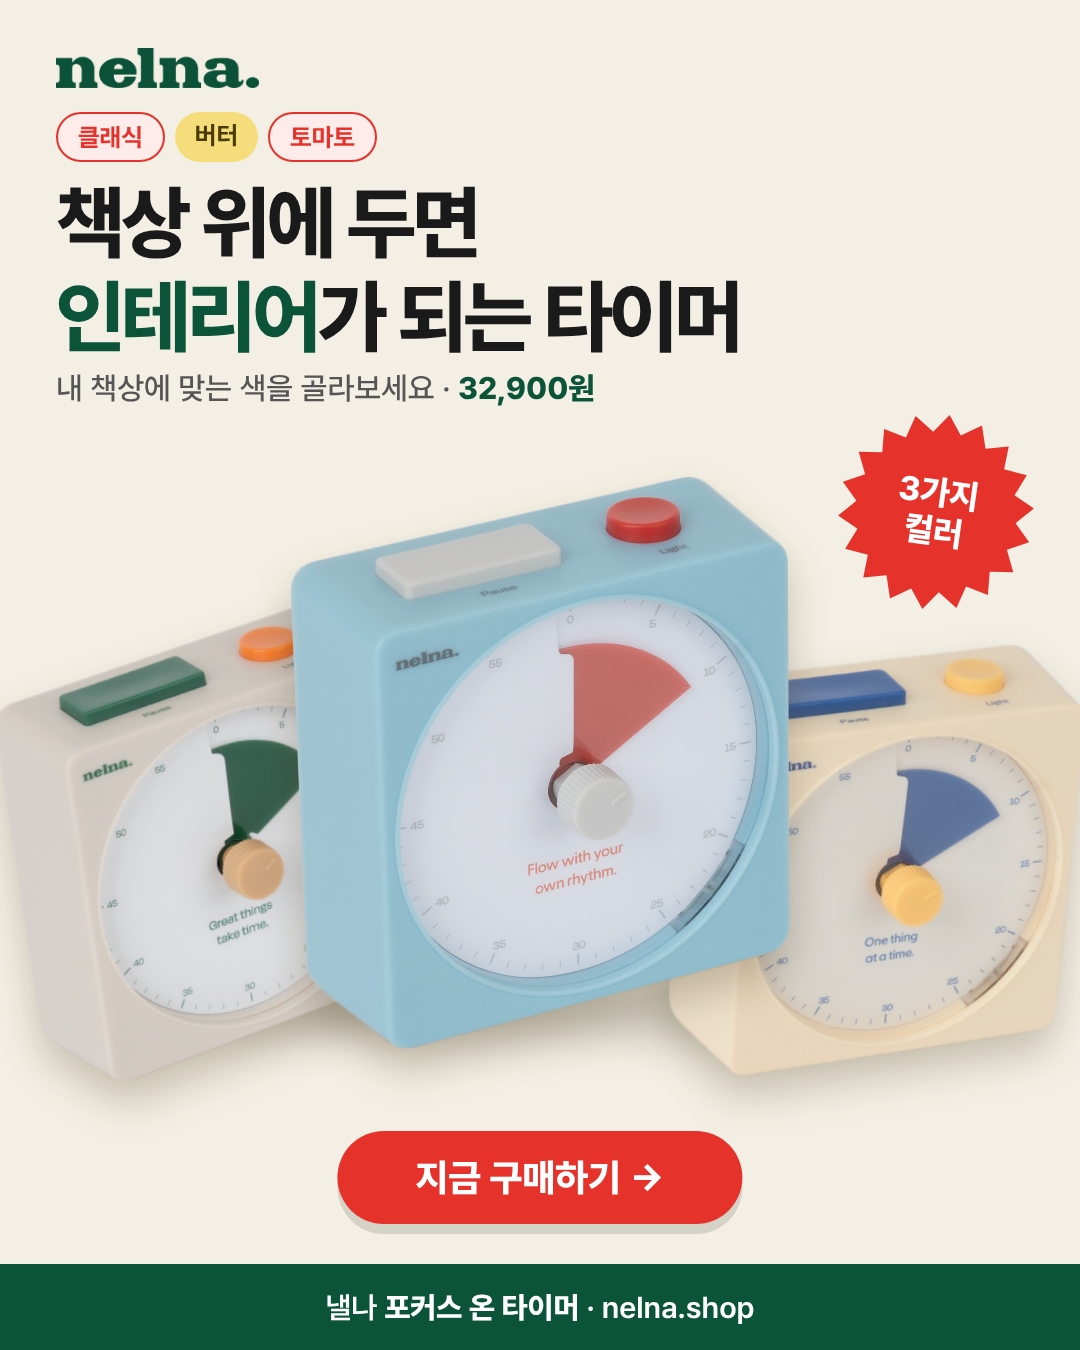
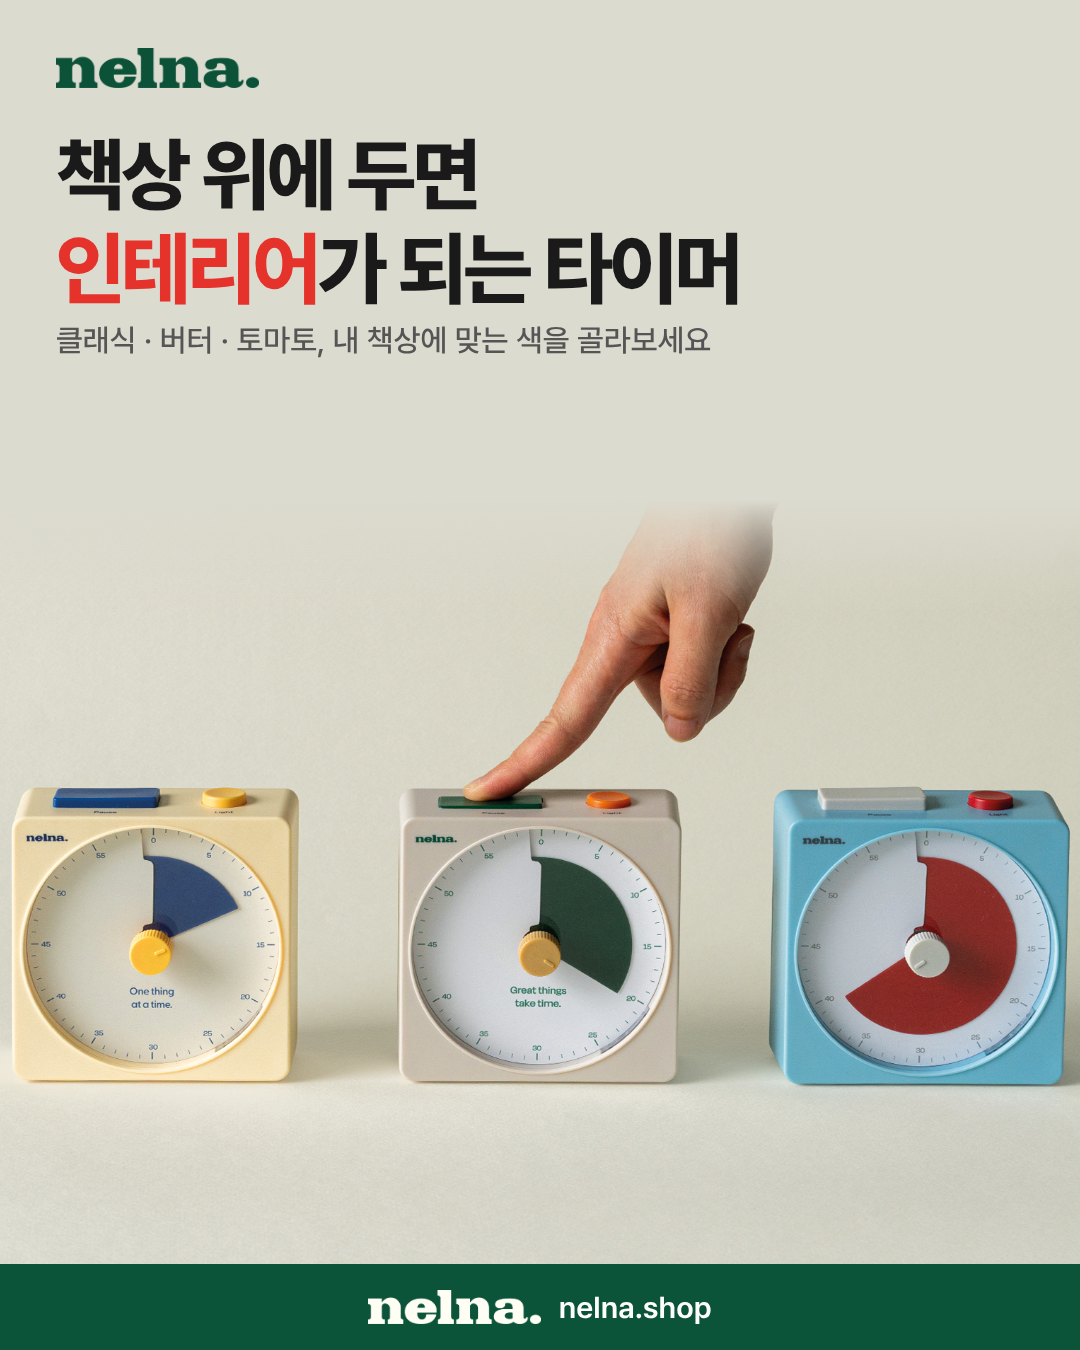
타이머 낼나 스타일 시안 개편: 사진샷 + 2번 구도 통일, 가격·구매 버튼 제거
Claude-Session: https://claude.ai/code/session_01DXS2KyyyYLycy5YDWmXmGC

diff --git a/ad-creatives/AD-BRIEF.md b/ad-creatives/AD-BRIEF.md
@@ -183,31 +183,116 @@
 
 - 01-timer_t6 · 본문·헤드라인·CTA는 **c6** 와 동일 · 스토리/릴스 커버 있음
 
-### 낼나 기존 광고 스타일 시안 (크림/사진 배경 · nelna. 로고 · 레드 CTA · 딥그린 바)
+### 낼나 기존 광고 스타일 시안 (사진 풀블리드 · nelna. 로고 · 딥그린 바 / 가격·구매 버튼 없음)
+
+#### 01-timer_n1
 
 ![01-timer_n1](out/01-timer_n1_feed.png)
 
-- 01-timer_n1 · 본문·헤드라인·CTA는 **c1** 와 동일
+- **메타 헤드라인**: 폰 대신 타이머 돌리세요
+- **메타 설명**: 다이얼 한 번이면 카운트다운 시작
+- **CTA 버튼**: 더 알아보기
+- **본문**:
+
+  > 폰 잠깐 본다는 게 한 시간이 된 적 있다면, 타이머부터 돌려보세요.⏱
+  > ✅ 다이얼만 돌리면 바로 카운트다운
+  > ✅ 남은 시간이 색으로 한눈에
+  > ✅ 스탠드 · 스탠드바 · 후크고리 · 마그넷, 어디든 거치
+  > 
+  > 👉 자세히 보기
+  > 
+  > 𝙣𝙚𝙡𝙣𝙖.𝙨𝙝𝙤𝙥
+
+#### 01-timer_n2
 
 ![01-timer_n2](out/01-timer_n2_feed.png)
 
-- 01-timer_n2 · 본문·헤드라인·CTA는 **c2** 와 동일
+- **메타 헤드라인**: 딱 25분만 돌려보세요
+- **메타 설명**: 공부 · 업무 · 청소, 다이얼 한 번이면 시작
+- **CTA 버튼**: 더 알아보기
+- **본문**:
+
+  > 시작이 제일 어렵다면 딱 25분만 돌려보세요.⏳
+  > ✅ 다이얼 한 번에 자동 카운트다운
+  > ✅ 공부 · 회의 · 청소 · SNS 시간 제한까지
+  > ✅ 클래식 · 버터 · 토마토, 책상 위에 두면 인테리어
+  > 
+  > 👉 자세히 보기
+  > 
+  > 𝙣𝙚𝙡𝙣𝙖.𝙨𝙝𝙤𝙥
+
+#### 01-timer_n3
 
 ![01-timer_n3](out/01-timer_n3_feed.png)
 
-- 01-timer_n3 · 본문·헤드라인·CTA는 **c3** 와 동일
+- **메타 헤드라인**: 남은 시간이 한눈에 보여요
+- **메타 설명**: 다이얼 색으로 남은 시간이 한눈에
+- **CTA 버튼**: 더 알아보기
+- **본문**:
+
+  > 시계 숫자를 계속 확인하지 않아도, 남은 시간이 색으로 한눈에 보여요.👀
+  > ✅ 다이얼만 돌리면 자동 카운트다운
+  > ✅ 공부 · 회의 · 휴식 · SNS 시간 제한까지
+  > ✅ 클래식 · 버터 · 토마토 3색
+  > 
+  > 👉 자세히 보기
+  > 
+  > 𝙣𝙚𝙡𝙣𝙖.𝙨𝙝𝙤𝙥
+
+#### 01-timer_n4
 
 ![01-timer_n4](out/01-timer_n4_feed.png)
 
-- 01-timer_n4 · 본문·헤드라인·CTA는 **c4** 와 동일
+- **메타 헤드라인**: 세우고, 걸고, 붙이고
+- **메타 설명**: 스탠드 · 스탠드바 · 후크고리 · 마그넷
+- **CTA 버튼**: 더 알아보기
+- **본문**:
+
+  > 책상 위에 세우고, 벽에 걸고, 냉장고에 붙이고.🧲
+  > ✅ 스탠드 · 스탠드바 · 후크고리 · 마그넷 4가지 거치 방식
+  > ✅ 다이얼만 돌리면 자동 카운트다운
+  > ✅ 클래식 · 버터 · 토마토 3색
+  > 
+  > 👉 자세히 보기
+  > 
+  > 𝙣𝙚𝙡𝙣𝙖.𝙨𝙝𝙤𝙥
+
+#### 01-timer_n5
 
 ![01-timer_n5](out/01-timer_n5_feed.png)
 
-- 01-timer_n5 · 본문·헤드라인·CTA는 **c5** 와 동일
+- **메타 헤드라인**: 인테리어가 되는 타이머
+- **메타 설명**: 클래식 · 버터 · 토마토 3가지 색
+- **CTA 버튼**: 더 알아보기
+- **본문**:
+
+  > 책상 위에 두면 인테리어가 되는 타이머.🪴
+  > ✅ 클래식 · 버터 · 토마토, 내 책상에 맞는 색 고르기
+  > ✅ 스탠드 · 스탠드바 · 후크고리 · 마그넷 4가지 거치
+  > ✅ 다이얼만 돌리면 자동 카운트다운
+  > 
+  > 👉 자세히 보기
+  > 
+  > 𝙣𝙚𝙡𝙣𝙖.𝙨𝙝𝙤𝙥
+
+#### 01-timer_n6
 
 ![01-timer_n6](out/01-timer_n6_feed.png)
 
-- 01-timer_n6 · 본문·헤드라인·CTA는 **c6** 와 동일
+- **메타 헤드라인**: 집 나간 집중력, 찾아드려요
+- **메타 설명**: 몰입의 순간을 경험해 보세요
+- **CTA 버튼**: 더 알아보기
+- **본문**:
+
+  > 집 나간 집중력, 포커스 온 타이머가 찾아드려요.💚
+  > 다이얼을 돌리는 순간 시작되는 카운트다운, 몰입의 순간을 경험해 보세요.
+  > ✅ 다이얼만 돌리면 자동 카운트다운
+  > ✅ 무음 · 작게 · 크게, 내 성향대로 고르는 알람
+  > ✅ 클래식 · 버터 · 토마토, 책상 위에 두면 인테리어
+  > 
+  > 👉 자세히 보기
+  > 
+  > 𝙣𝙚𝙡𝙣𝙖.𝙨𝙝𝙤𝙥
 
 ### 영상 스크립트 (15초 · 9:16 릴스 (전환형))
 
